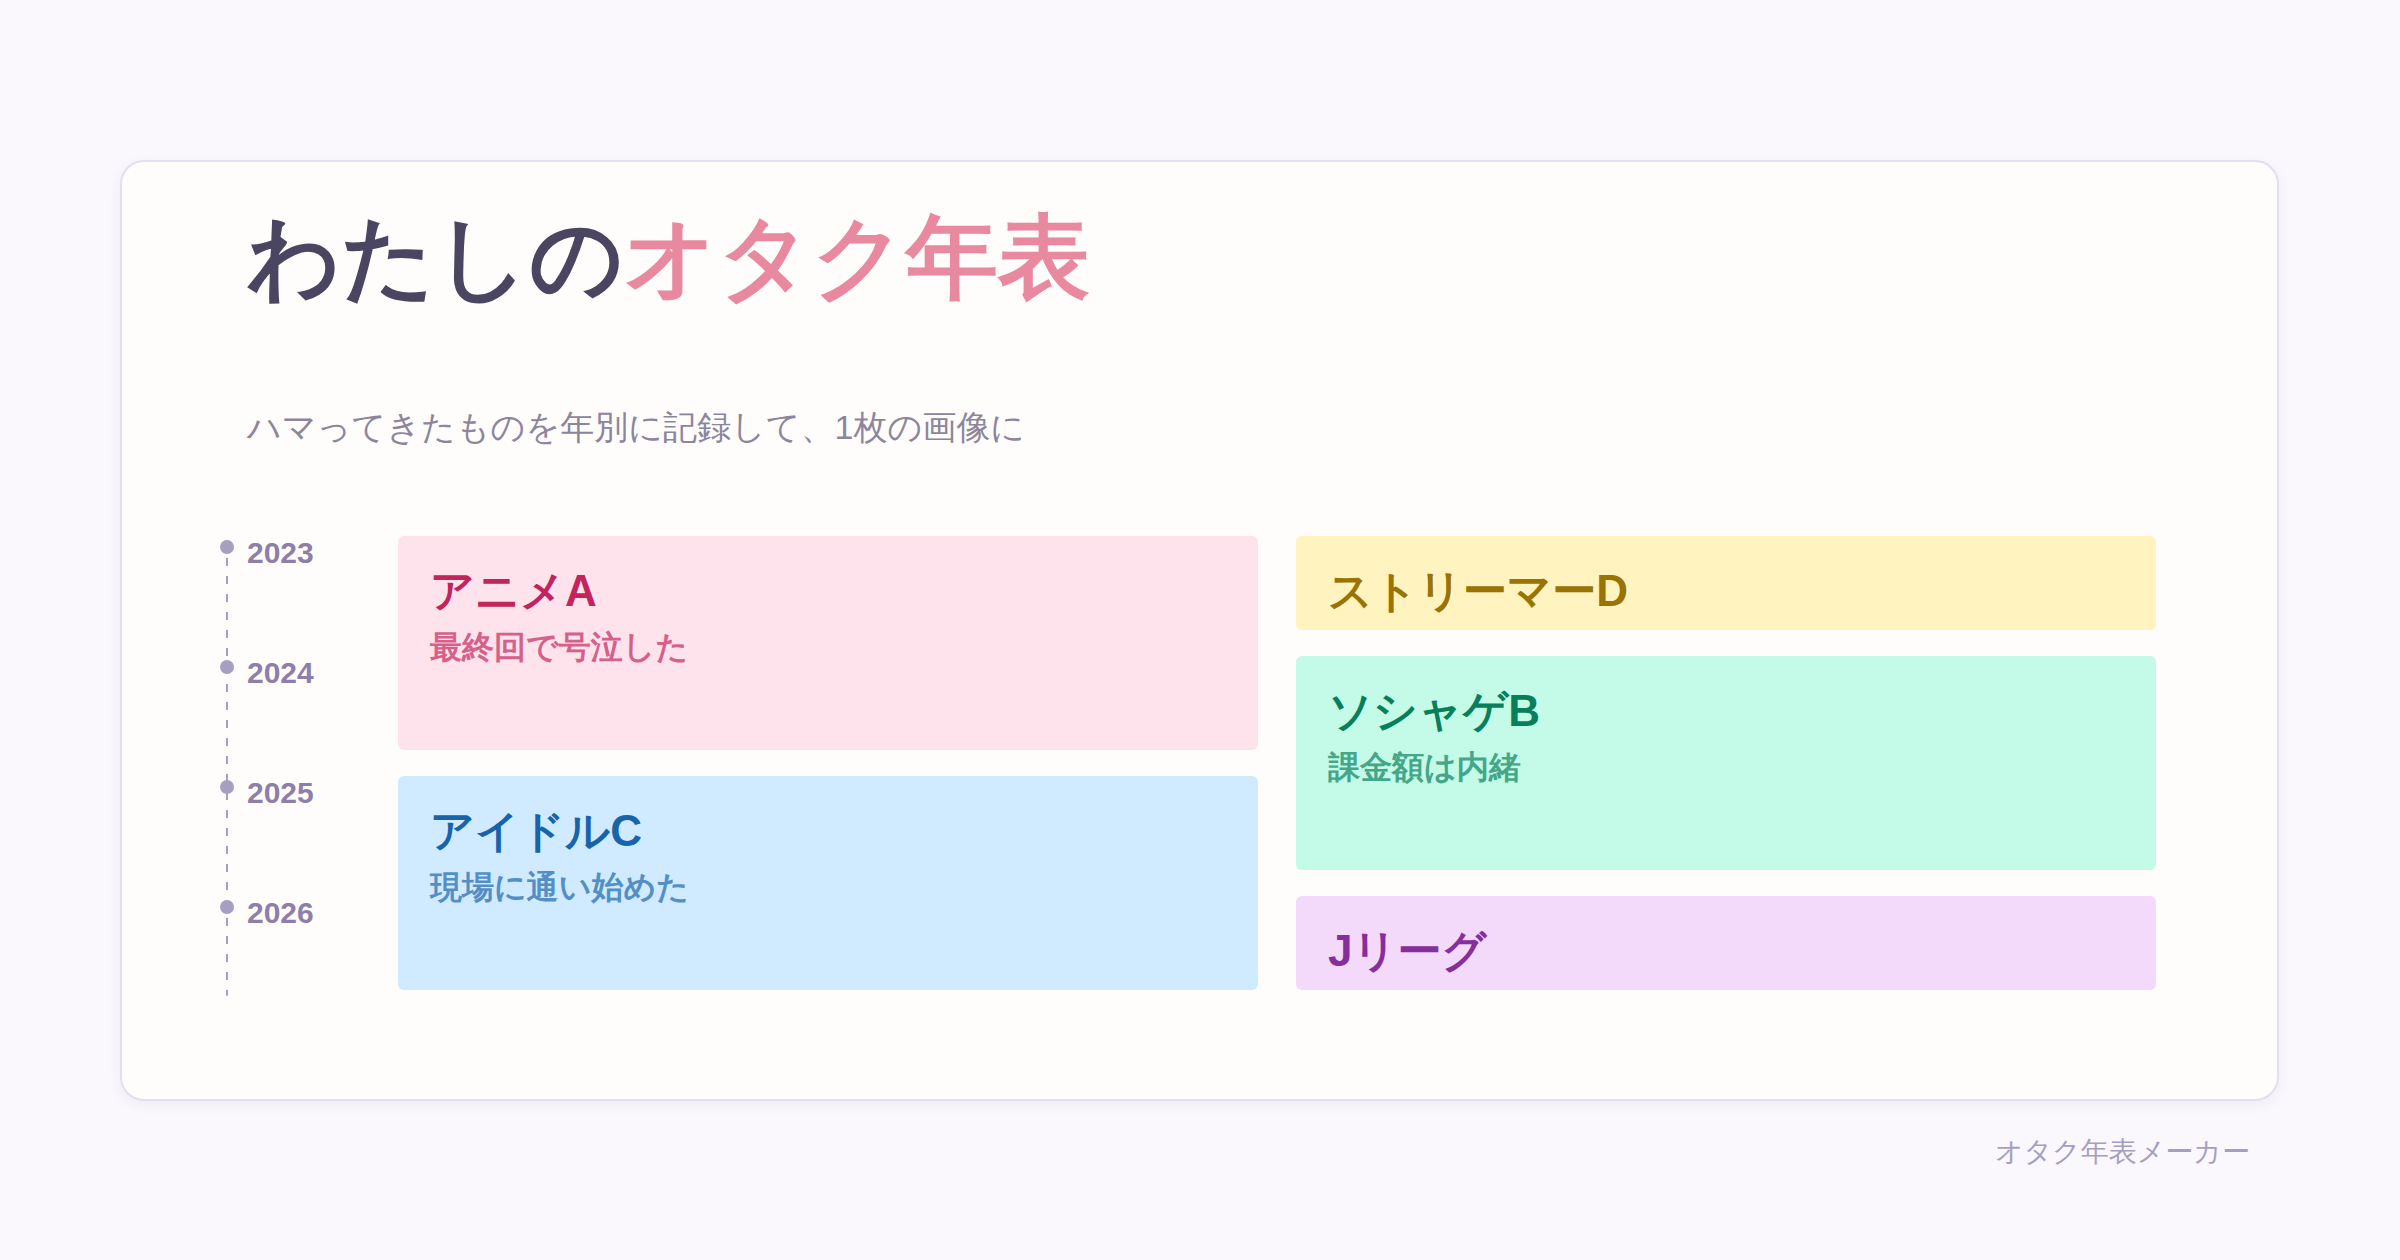
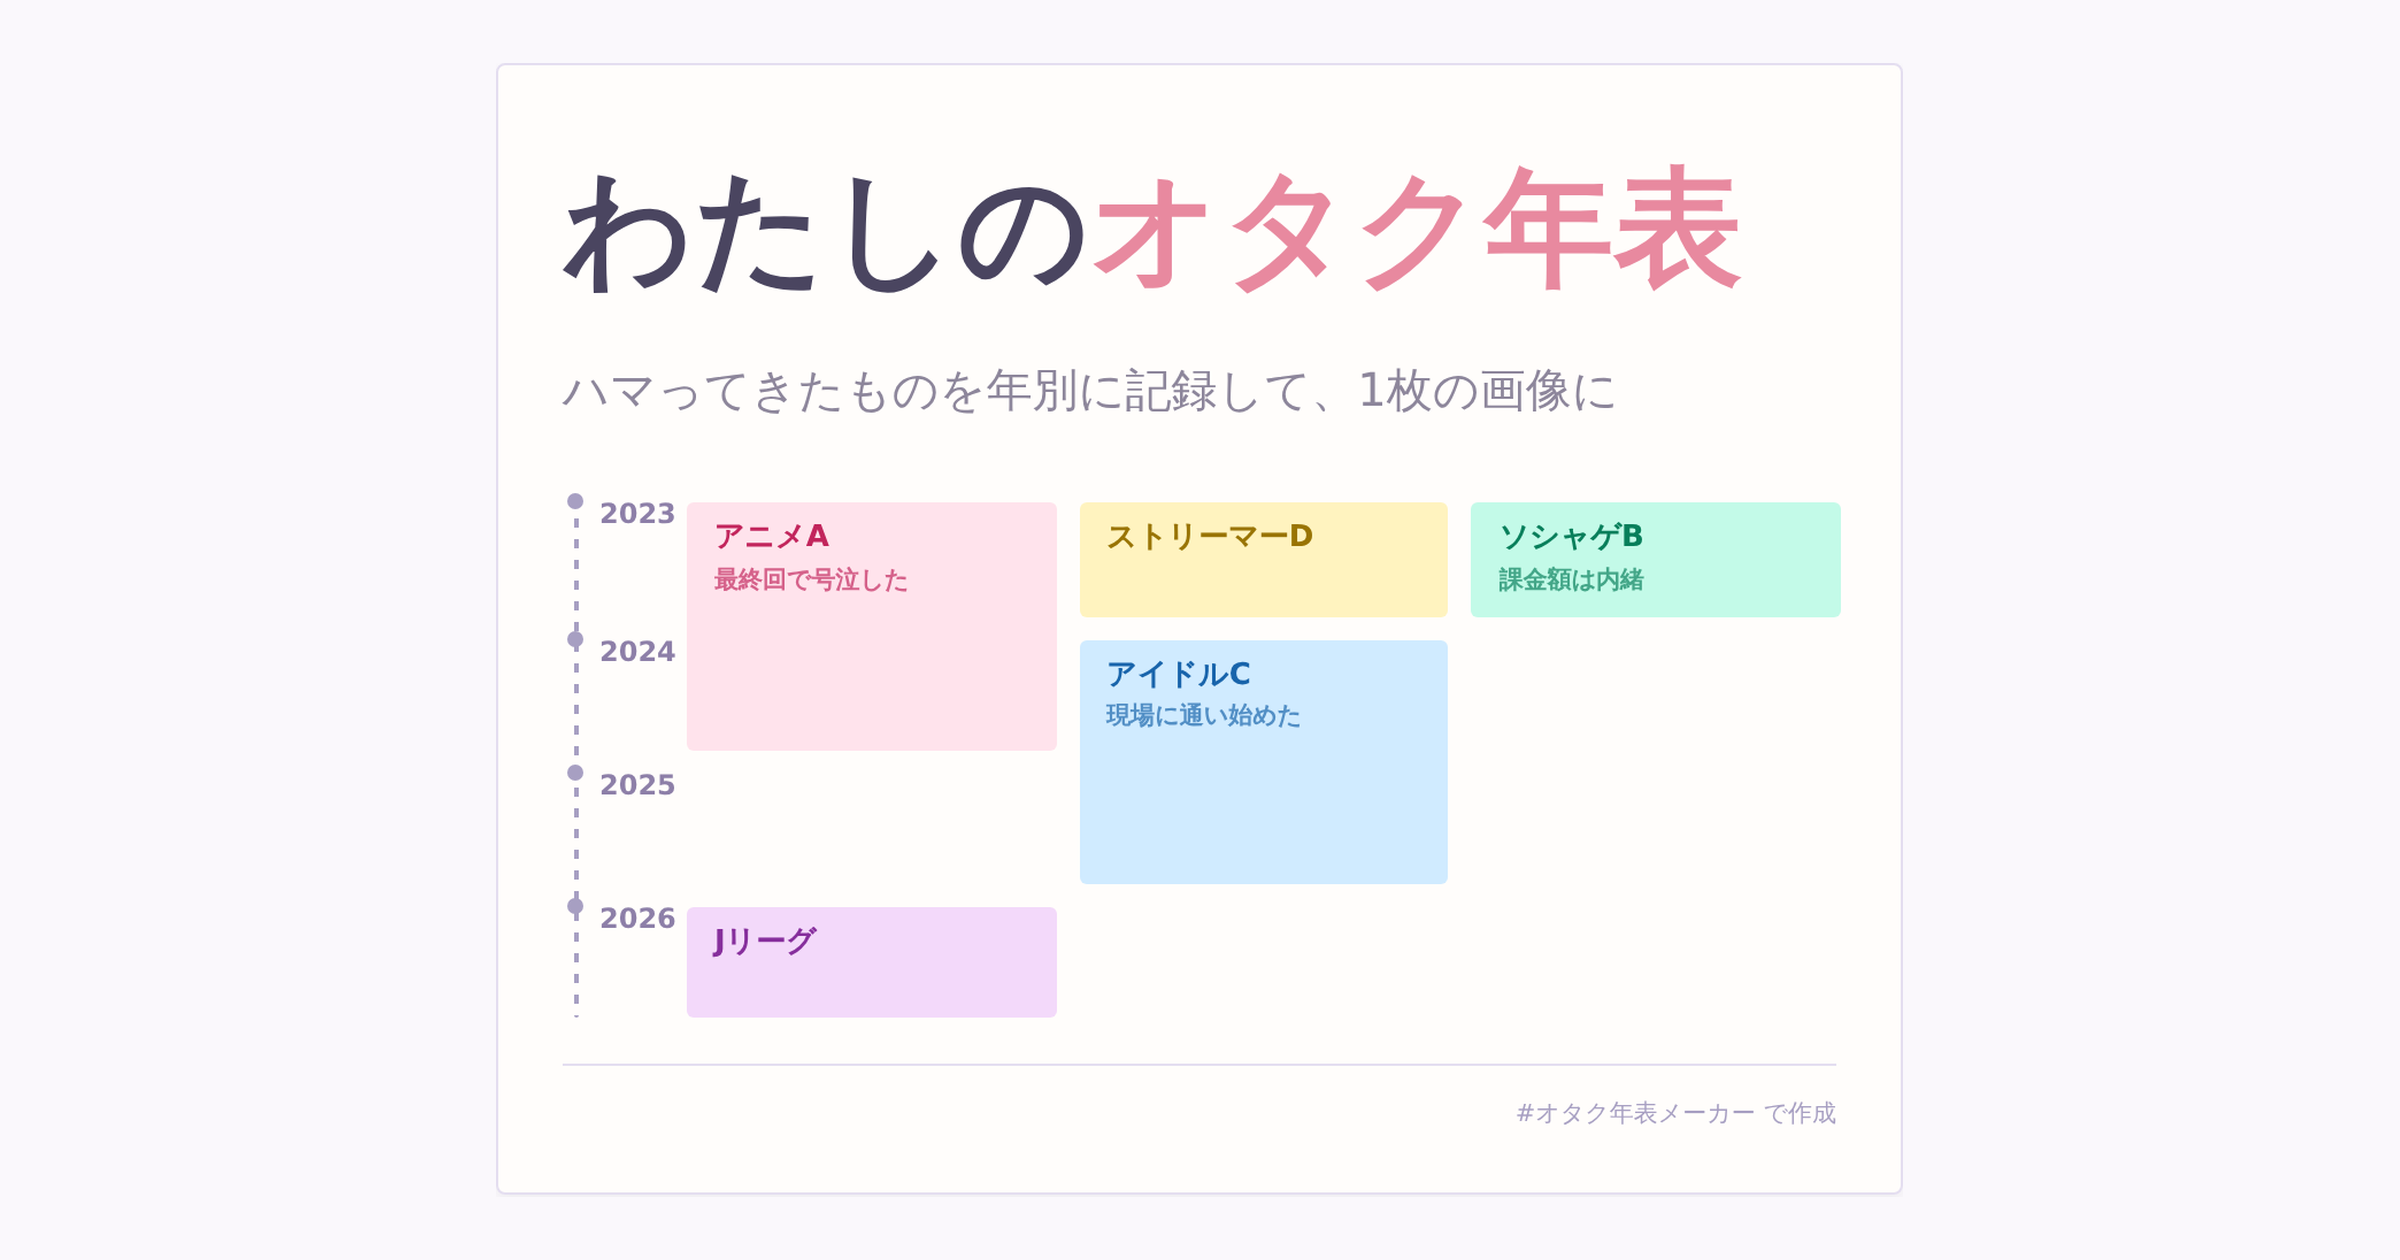
サンプル画像を作り直し、3列/2列/1列・継続年の見せ方を追加 (#67)
背景:
サンプル画像（public/ogp.png。OGP／Twitter Cardとアプリ内の空状態
プレビューの両方で共用）について、「項目の内容は同じままで、3列並ぶ
年・2列や1列の年・継続年（複数年にまたがるブロック）があるところが
見えるよう、配置を変えてほしい」という依頼があった。

対応:
既存の画像は2レーンまでしか使っておらず、3レーンが並ぶ様子を見せられて
いなかった。この画像は独自フォント（Zen Maru Gothic／Zen Kaku Gothic
New）で作られているが、このセッションの環境からはGoogle Fontsに到達
できず同じフォントで新規に文字を描き直せないという制約があったため、
ユーザーに確認の上「フォントが変わってもよいので新規に作り直す」方針
で対応した。

実装は、Playwrightで実際のアプリにテスト用データ（アニメA・ストリー
マーD・ソシャゲB・アイドルC・Jリーグの5項目はそのまま、年ごとの配置
のみ変更：2023年に3項目、2024年に2項目（アニメAが継続、アイドルCが
新規）、2025年に1項目（アイドルCが継続）、2026年に1項目（Jリーグ）で
3レーン・2レーン・1レーン・2件の継続ブロックすべてを1枚で見せられる
構成にした）をlocalStorage経由で注入し、実際のプレビューカード（見出し・
チャート・フッター署名）をそのままスクリーンショットする方式にした。
これによりレーン割り当て・連続ブロックの結合といったロジックは実装
（computeLaneSegments等）をそのまま使うため、手作業での再実装による
ズレのリスクを避けられる。バナーとしての見た目（大きな見出し＋タグ
ライン）を保つため、スクリーンショット前に見出しのフォントサイズを
拡大しタグラインを挿入する処理をPlaywright側で行った。最終的な画像は
2400×1260のキャンバス（og:image:width/heightの宣言値と一致）に背景色
を敷き、高さ基準で90%に収まるよう拡大して中央配置する形で仕上げた。

動作確認:
- npx tsc -b --noEmit / npm run lint / npx prettier --check . / npm run
  build がいずれも成功（dist/ogp.pngが正しく2400x1260でコピーされる
  ことも確認）
- Playwrightで新しいデータが正しく描画されること（各項目名の存在、
  見出しの内容）を確認した上でスクリーンショットを取得
- ユーザーに画像を共有し、見た目の承認を得た

docs/SPEC.md: 7章に59番として経緯を追記（末尾の区切り線の欠落も修正）

Claude-Session: https://claude.ai/code/session_017mqjnuMCpFUtiCoFFqzmAT

diff --git a/docs/SPEC.md b/docs/SPEC.md
@@ -285,4 +285,8 @@
 
 58. 「動作確認している中で、画像内のフォントが違うのになってることがたびたび起きている」という報告があり、44〜47で対策してきたはずのWebKitフォント埋め込みバグ（詳細は7章44・47参照）が再発しているとみて調査した。コードを見直したところ、53のPC・モバイル統一で、それまでモバイル専用だった`exportNodeAsPngBlob`をPCも同じ経路で通るようになった一方、47で確立した「ダミー書き出しを2回連続で行う」対策は`isIOS()`のみで判定されたままだったことに気づいた。`isIOS()`はiPhone・iPadと、タッチ対応のMacIntel（新しめのiPadOSがMacを名乗る場合）しか見ておらず、タッチのない通常のデスクトップ版Safari（macOS）は対象に含まれていなかった。デスクトップ版Safariも実体はiOSと同じWebKitエンジンであり、47までに確認された既知のバグが起こりうる。PC・モバイルを統一する以前は、PCの保存は`ShareButtons`（ダウンロード方式）を使っており`exportNodeAsPngBlob`の書き出し方式自体は関係していなかったため、この抜けは53の統一によって新たに生まれた、これまで気づかれていなかったギャップだったと考えられる。対処として、`utils/platform.ts`に`needsFontEmbedWorkaround()`を新設し、`isIOS()`に加えてデスクトップ版Safari（User-Agentに"Safari"を含み"chrome"・"android"を含まないブラウザ、という定番の判定方法）も対象に含めるようにし、`exportImage.ts`のダミー書き出し判定をこちらに差し替えた。あわせて、フォント埋め込みCSSの先読み・キャッシュ機構（21参照）にも見落としがありうると考え、`loadFontEmbedCSS`が解決したCSSに実際に使っている2書体（Zen Maru Gothic／Zen Kaku Gothic New）の`@font-face`ルールが両方含まれているかを確認するチェックを追加した：Google Fontsのスタイルシート（`index.html`で`<link>`読み込み）がまだ読み込み中のタイミングで先読みが走ると、@font-faceルールが1件もマッチせず空（または一部の書体だけ）のCSSが返ってくることがありうる。従来はこの「解決はしたが不完全な結果」もそのままキャッシュしてしまい、一度発生するとページを再読み込みするまでずっと不完全な埋め込みCSSを使い続けてしまう（＝書き出すたびに毎回フォールバックフォントで焼き込まれる）構造だった。これを失敗として扱いキャッシュしないよう変更し、次回の呼び出しで再度取得し直せるようにした（既存の「Promise自体の失敗時はキャッシュを空に戻す」仕組みと同じパターンを、「Promiseは成功したが中身が不完全」なケースにも広げる形）。動作確認は、`npx tsc -b --noEmit`／`npm run lint`／`npx prettier --check .`／`npm run build`がいずれも成功することに加え、Playwrightで`HTMLCanvasElement.prototype.toBlob`の呼び出し回数を計測し、iOS Safari・デスクトップ版SafariのUser-Agentではダミー書き出しを含め2回、デスクトップ版Chrome・Windows版Chrome・Android版ChromeのUser-Agentでは1回のみ呼ばれることを確認し、いずれの環境でも画像生成自体がエラーなく完了することを確認した。実機のデスクトップ版Safari・iOS実機での最終確認は、このサンドボックス環境の性質上できていない
 
+59. サンプル画像（`public/ogp.png`。OGP／Twitter Cardとアプリ内の空状態プレビューの両方で共用）について、「項目の内容は同じままで、3列並ぶ年・2列や1列の年・継続年（複数年にまたがるブロック）があるところが見えるよう、配置を変えてほしい」という依頼があった。既存の画像は2レーンまでしか使っておらず、3レーンが並ぶ様子を見せられていなかった。まず、この画像は独自フォント（Zen Maru Gothic／Zen Kaku Gothic New）で作られているが、このセッションの環境からはGoogle Fontsに到達できず、同じフォントで新規に文字を描き直すことができないという制約があったため、「今の画像内の文字入りブロックをそのまま切り貼りする」案と「フォントが変わってもよいので新規に作り直す」案をユーザーに確認したところ、後者を選んだ。実装は、Playwrightで実際のアプリにテスト用データ（アニメA・ストリーマーD・ソシャゲB・アイドルC・Jリーグの5項目はそのまま、年ごとの配置のみ変更：2023年に3項目、2024年に2項目（アニメAが2023年から継続、アイドルCが新規）、2025年に1項目（アイドルCが継続）、2026年に1項目（Jリーグ）で3レーン・2レーン・1レーン・2件の継続ブロックすべてを1枚で見せられる構成にした）をlocalStorage経由で注入し、実際のプレビューカード（見出し・チャート・フッター署名）をそのままスクリーンショットする方式にした。これにより、レーン割り当て・連続ブロックの結合といったロジック部分は実装（`computeLaneSegments`等）をそのまま使うことになり、手作業での再実装によるズレのリスクを避けられる。バナーとしての見た目（大きな見出し＋タグライン）を保つため、スクリーンショット前に見出しのフォントサイズを拡大しタグライン（「ハマってきたものを年別に記録して、1枚の画像に」）を挿入する処理をPlaywright側で行った。PCのレイアウトが`max-w-6xl`で幅を制限しているため、そのままではプレビューがscale<1で縮小表示されてしまう問題があり、ScaledCanvasの外側divの幅を一時的に強制的に広げてscale=1（等倍）で描画させてから撮影した。最終的な画像は、そのままだと正方形に近い比率になり`og:image:width`／`og:image:height`（2400×1260）で宣言している比率と合わないため、2400×1260のキャンバスに背景色（`#FAF8FC`）を敷き、高さ基準で90%に収まるよう拡大して中央配置する形で仕上げた。フォントはGoogle Fontsではなくブラウザのフォールバック（IPAGothic相当）になっているが、これは事前にユーザーの了承を得た上での判断。動作確認は、Playwrightで新しいデータが正しく描画されること（各項目名の存在、見出しの内容）を確認した上でスクリーンショットを取得し、実際にユーザーに画像を共有して見た目の承認を得た
+
+---
+
 _本仕様書は個人開発プロジェクト「オタク年表メーカー」の実装開始前の仕様整理として作成。_
